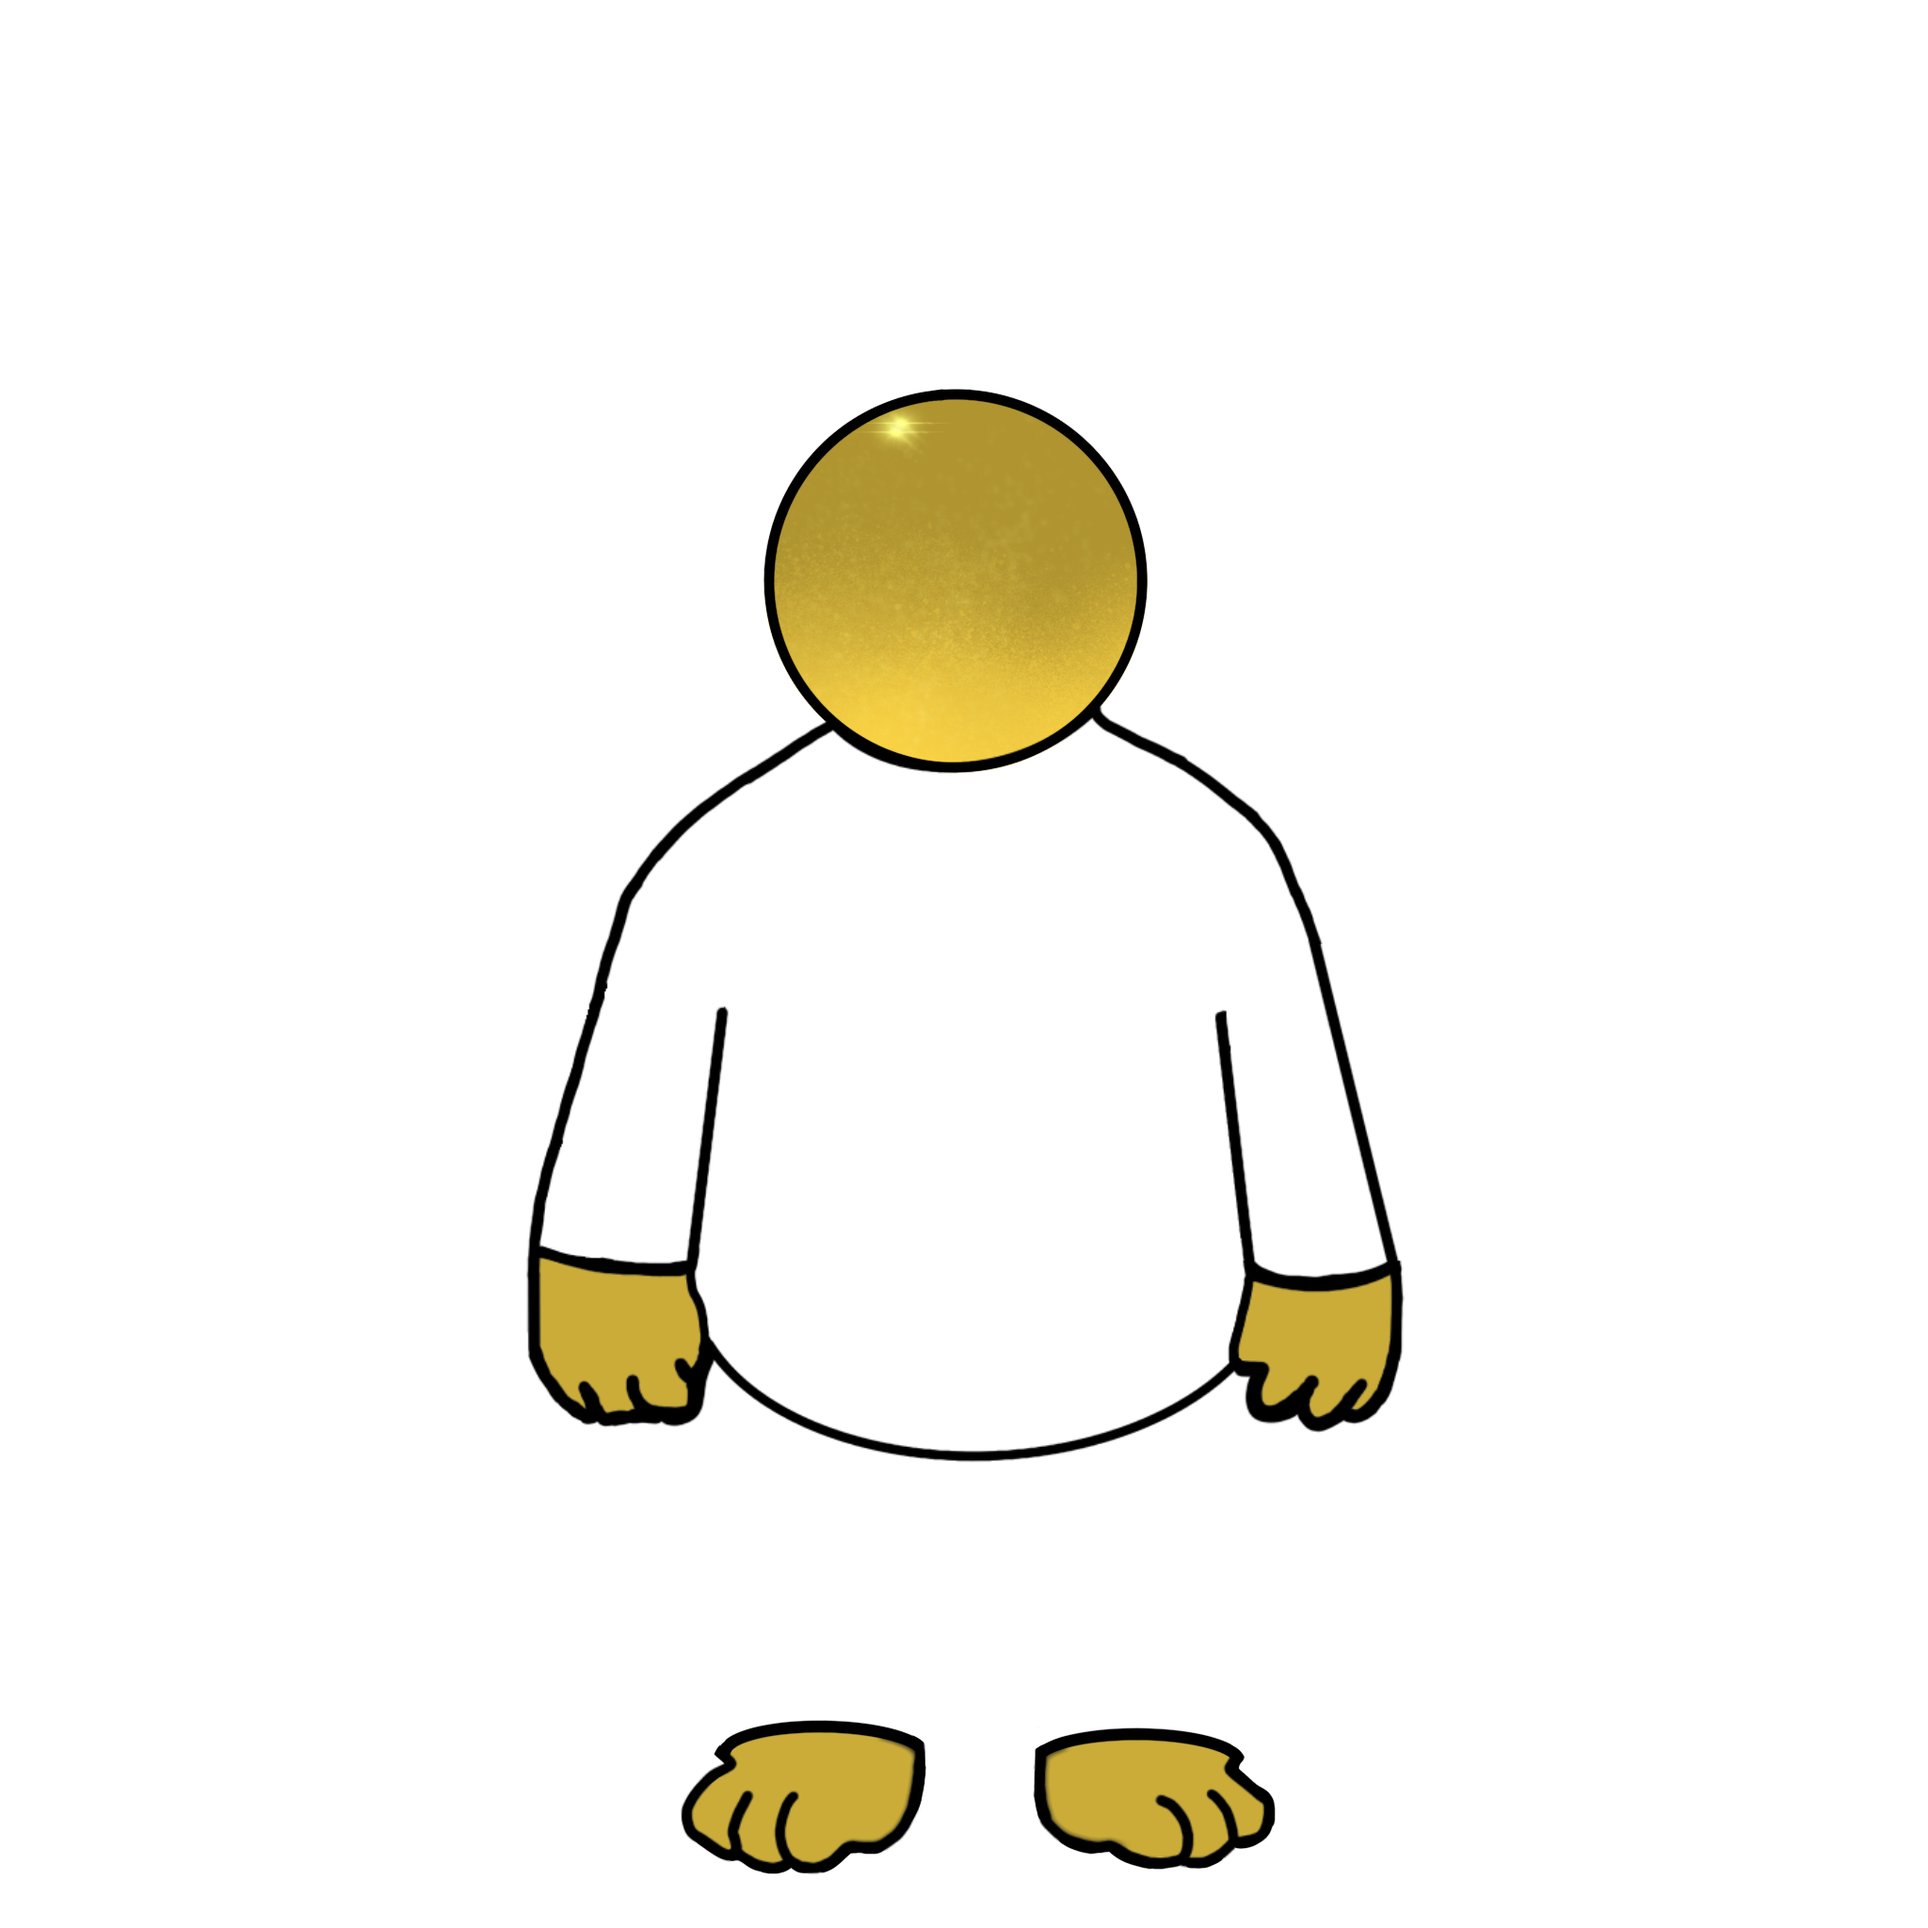
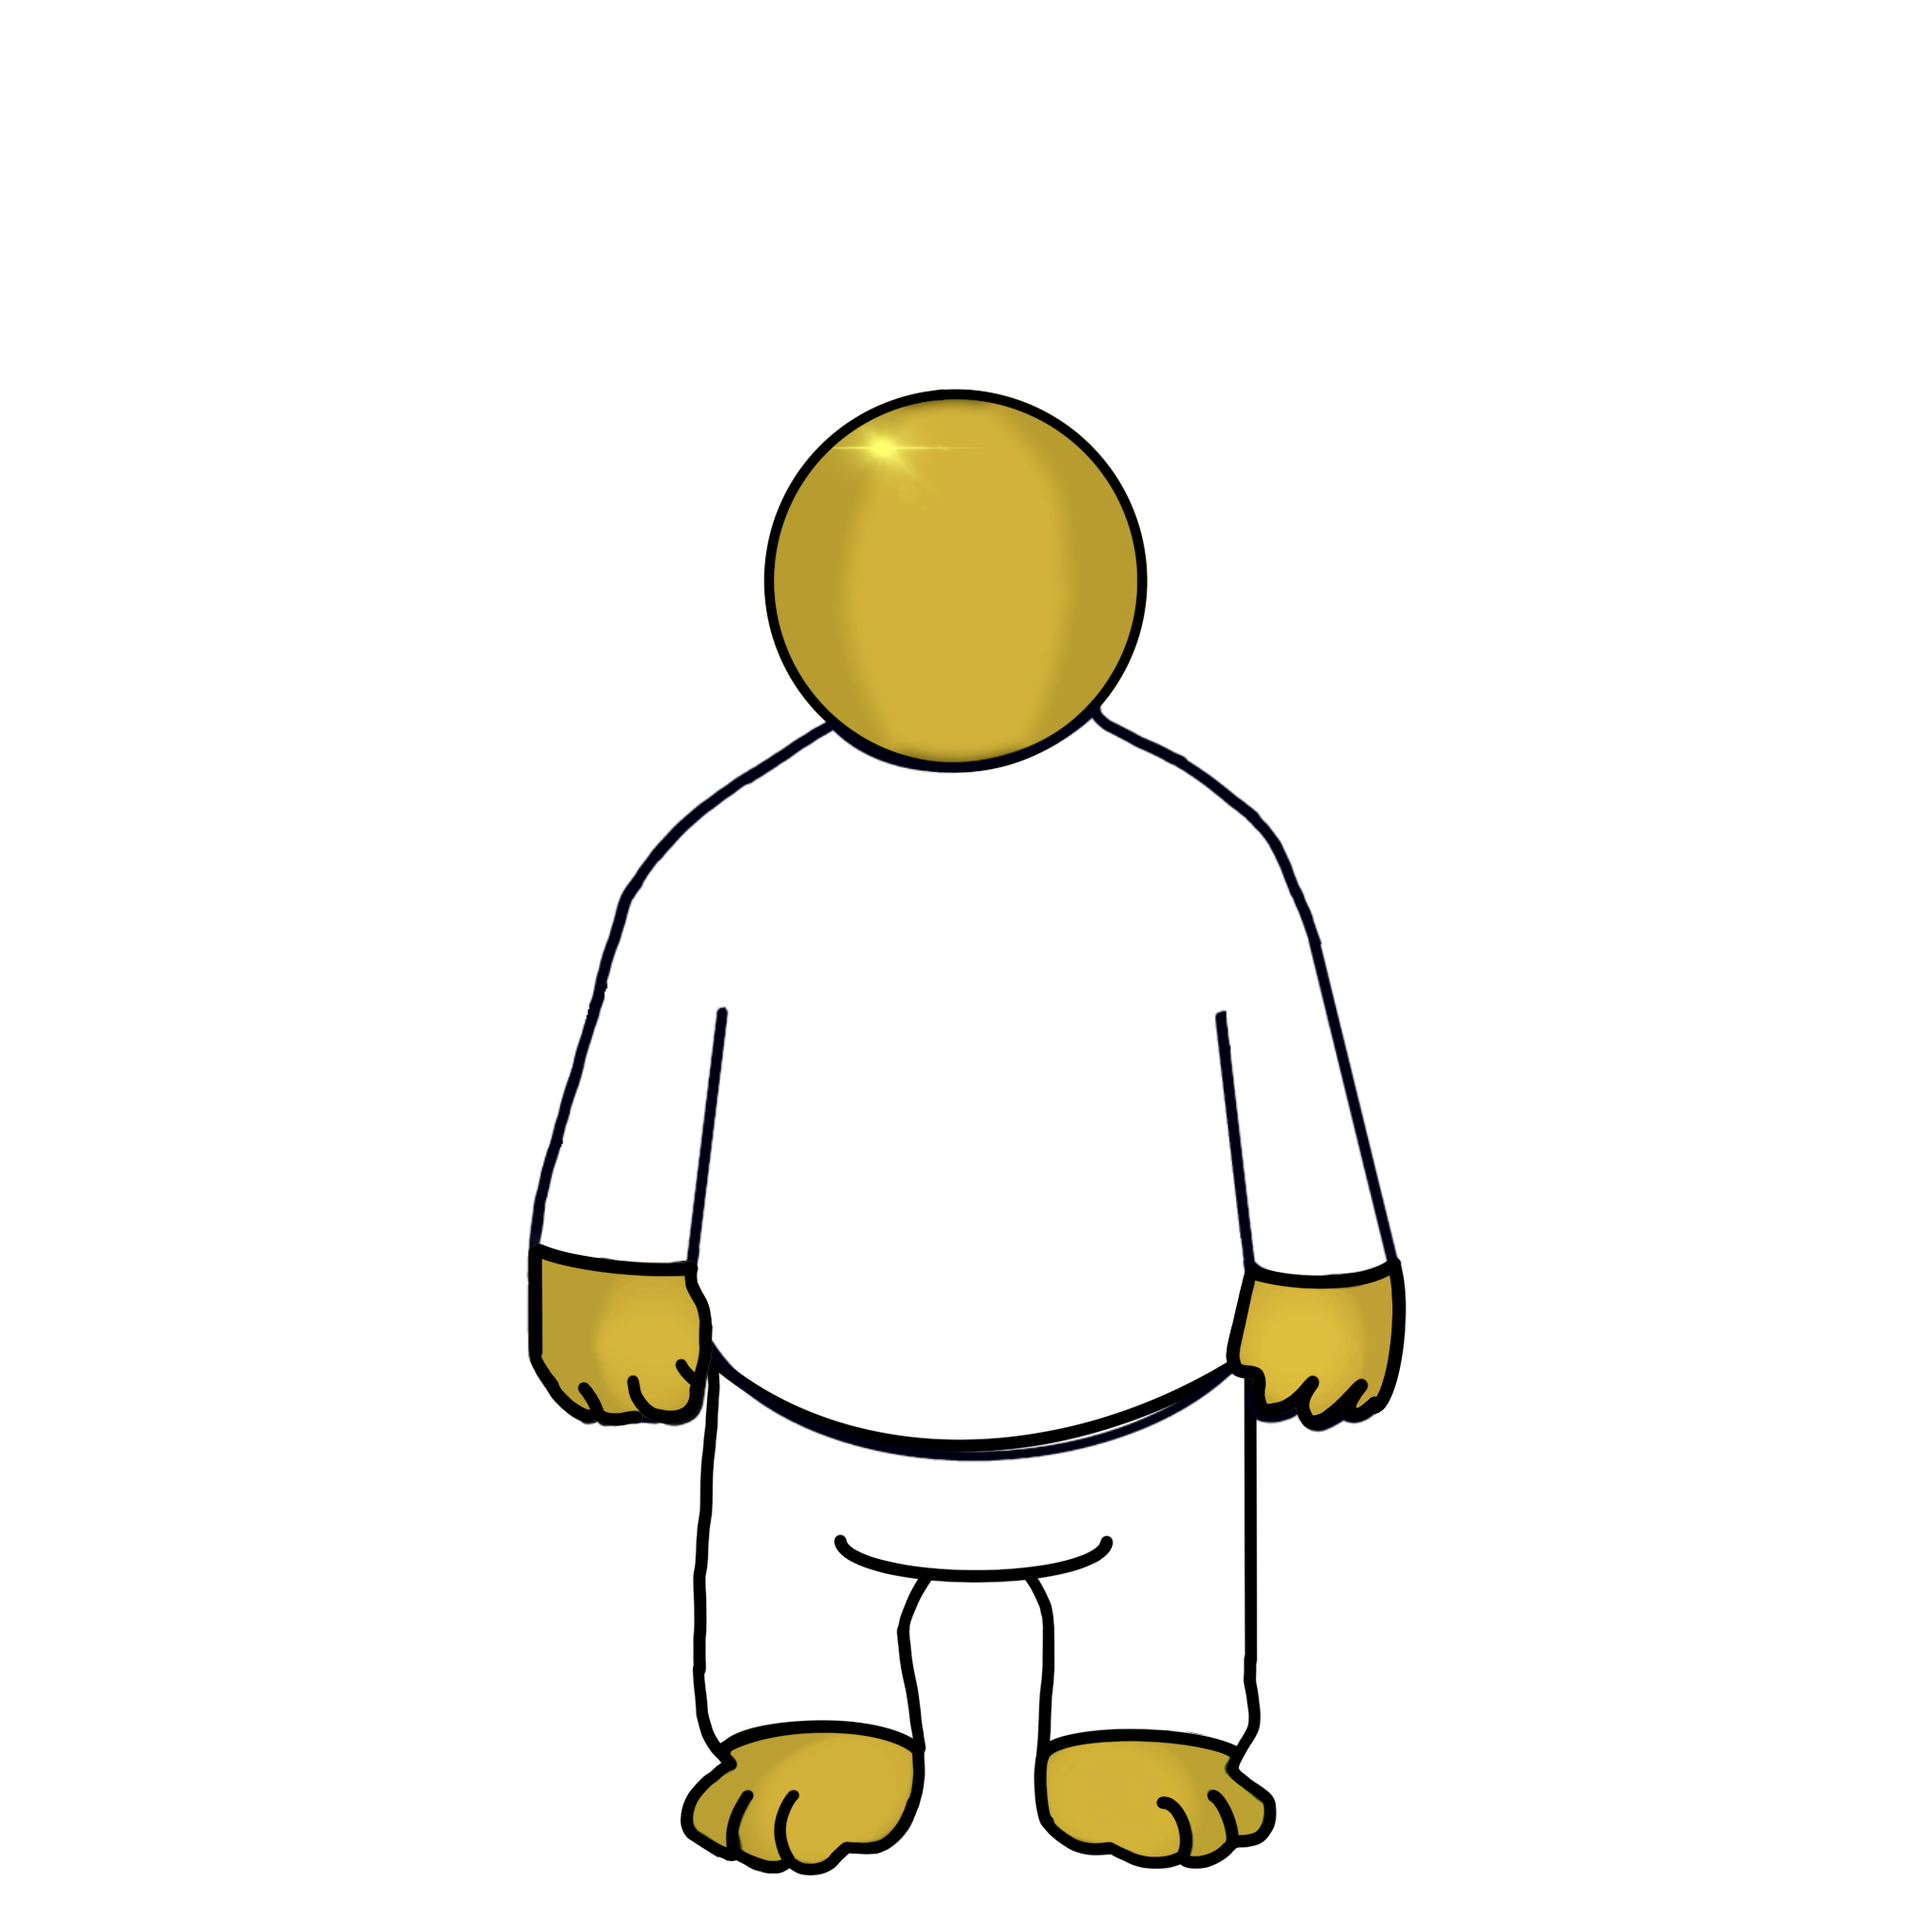
1

diff --git a/backend/src/config.js b/backend/src/config.js
@@ -14,7 +14,7 @@ const baseUri = "ipfs://NewUriToReplace"; // This will be replaced automatically
 // If you have selected Solana then the collection starts from 0 automatically
 const layerConfigurations = [
   {
-    growEditionSizeTo: 500,
+    growEditionSizeTo: 50,
     layersOrder: [
       { name: "Background" },
       { name: "Platform" },
@@ -30,12 +30,12 @@ const layerConfigurations = [
     ],
   },
   {
-    growEditionSizeTo: 800,
+    growEditionSizeTo: 80,
     layersOrder: [
       { name: "Background" },
       { name: "Platform" },
-      { name: "Special legs" }, 
-      { name: "Sweater" },
+      { name: "Sweater" }, 
+      { name: "Legs" },
       { name: "Pin" }, 
       { name: "Skincolor" },
       { name: "Mouth" }, 
@@ -47,11 +47,11 @@ const layerConfigurations = [
     ],
   },
   {
-    growEditionSizeTo: 1000,
+    growEditionSizeTo: 100,
     layersOrder: [
       { name: "Background" },
       { name: "Platform" },
-      { name: "Legs" }, 
+      { name: "Special legs" }, 
       { name: "Tshirts" },
       { name: "Pin" }, 
       { name: "Skincolor" },
